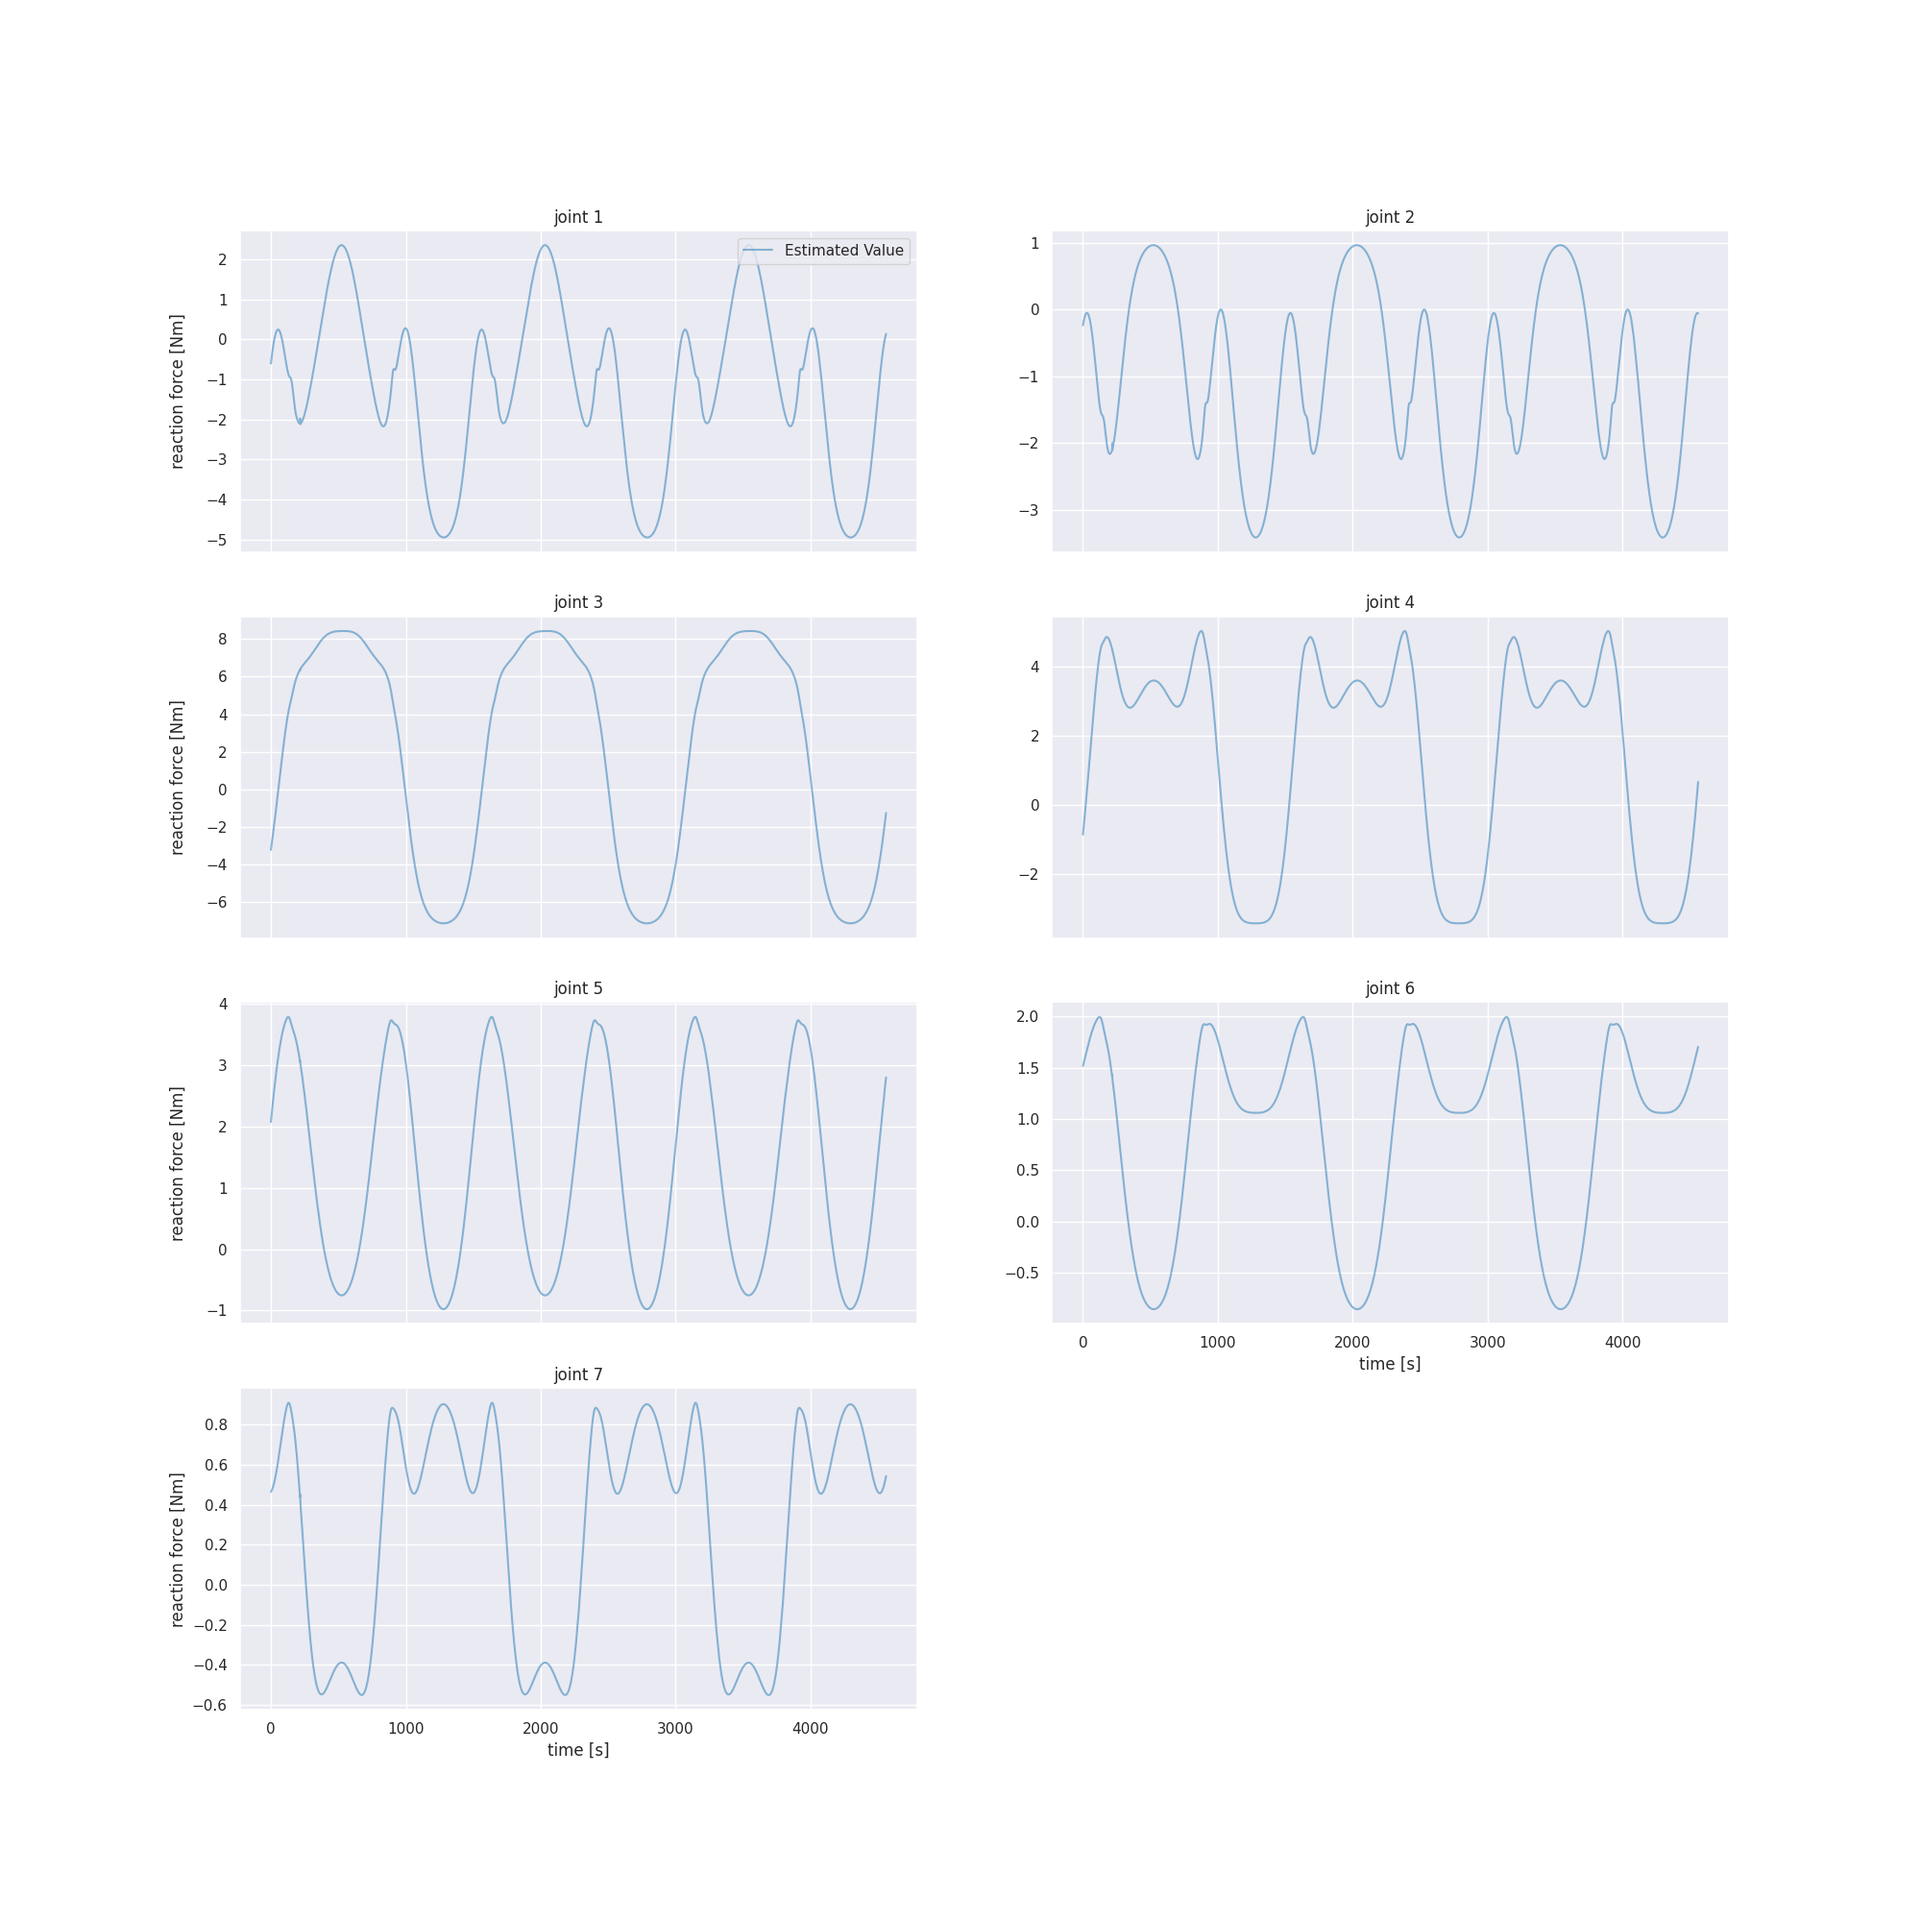
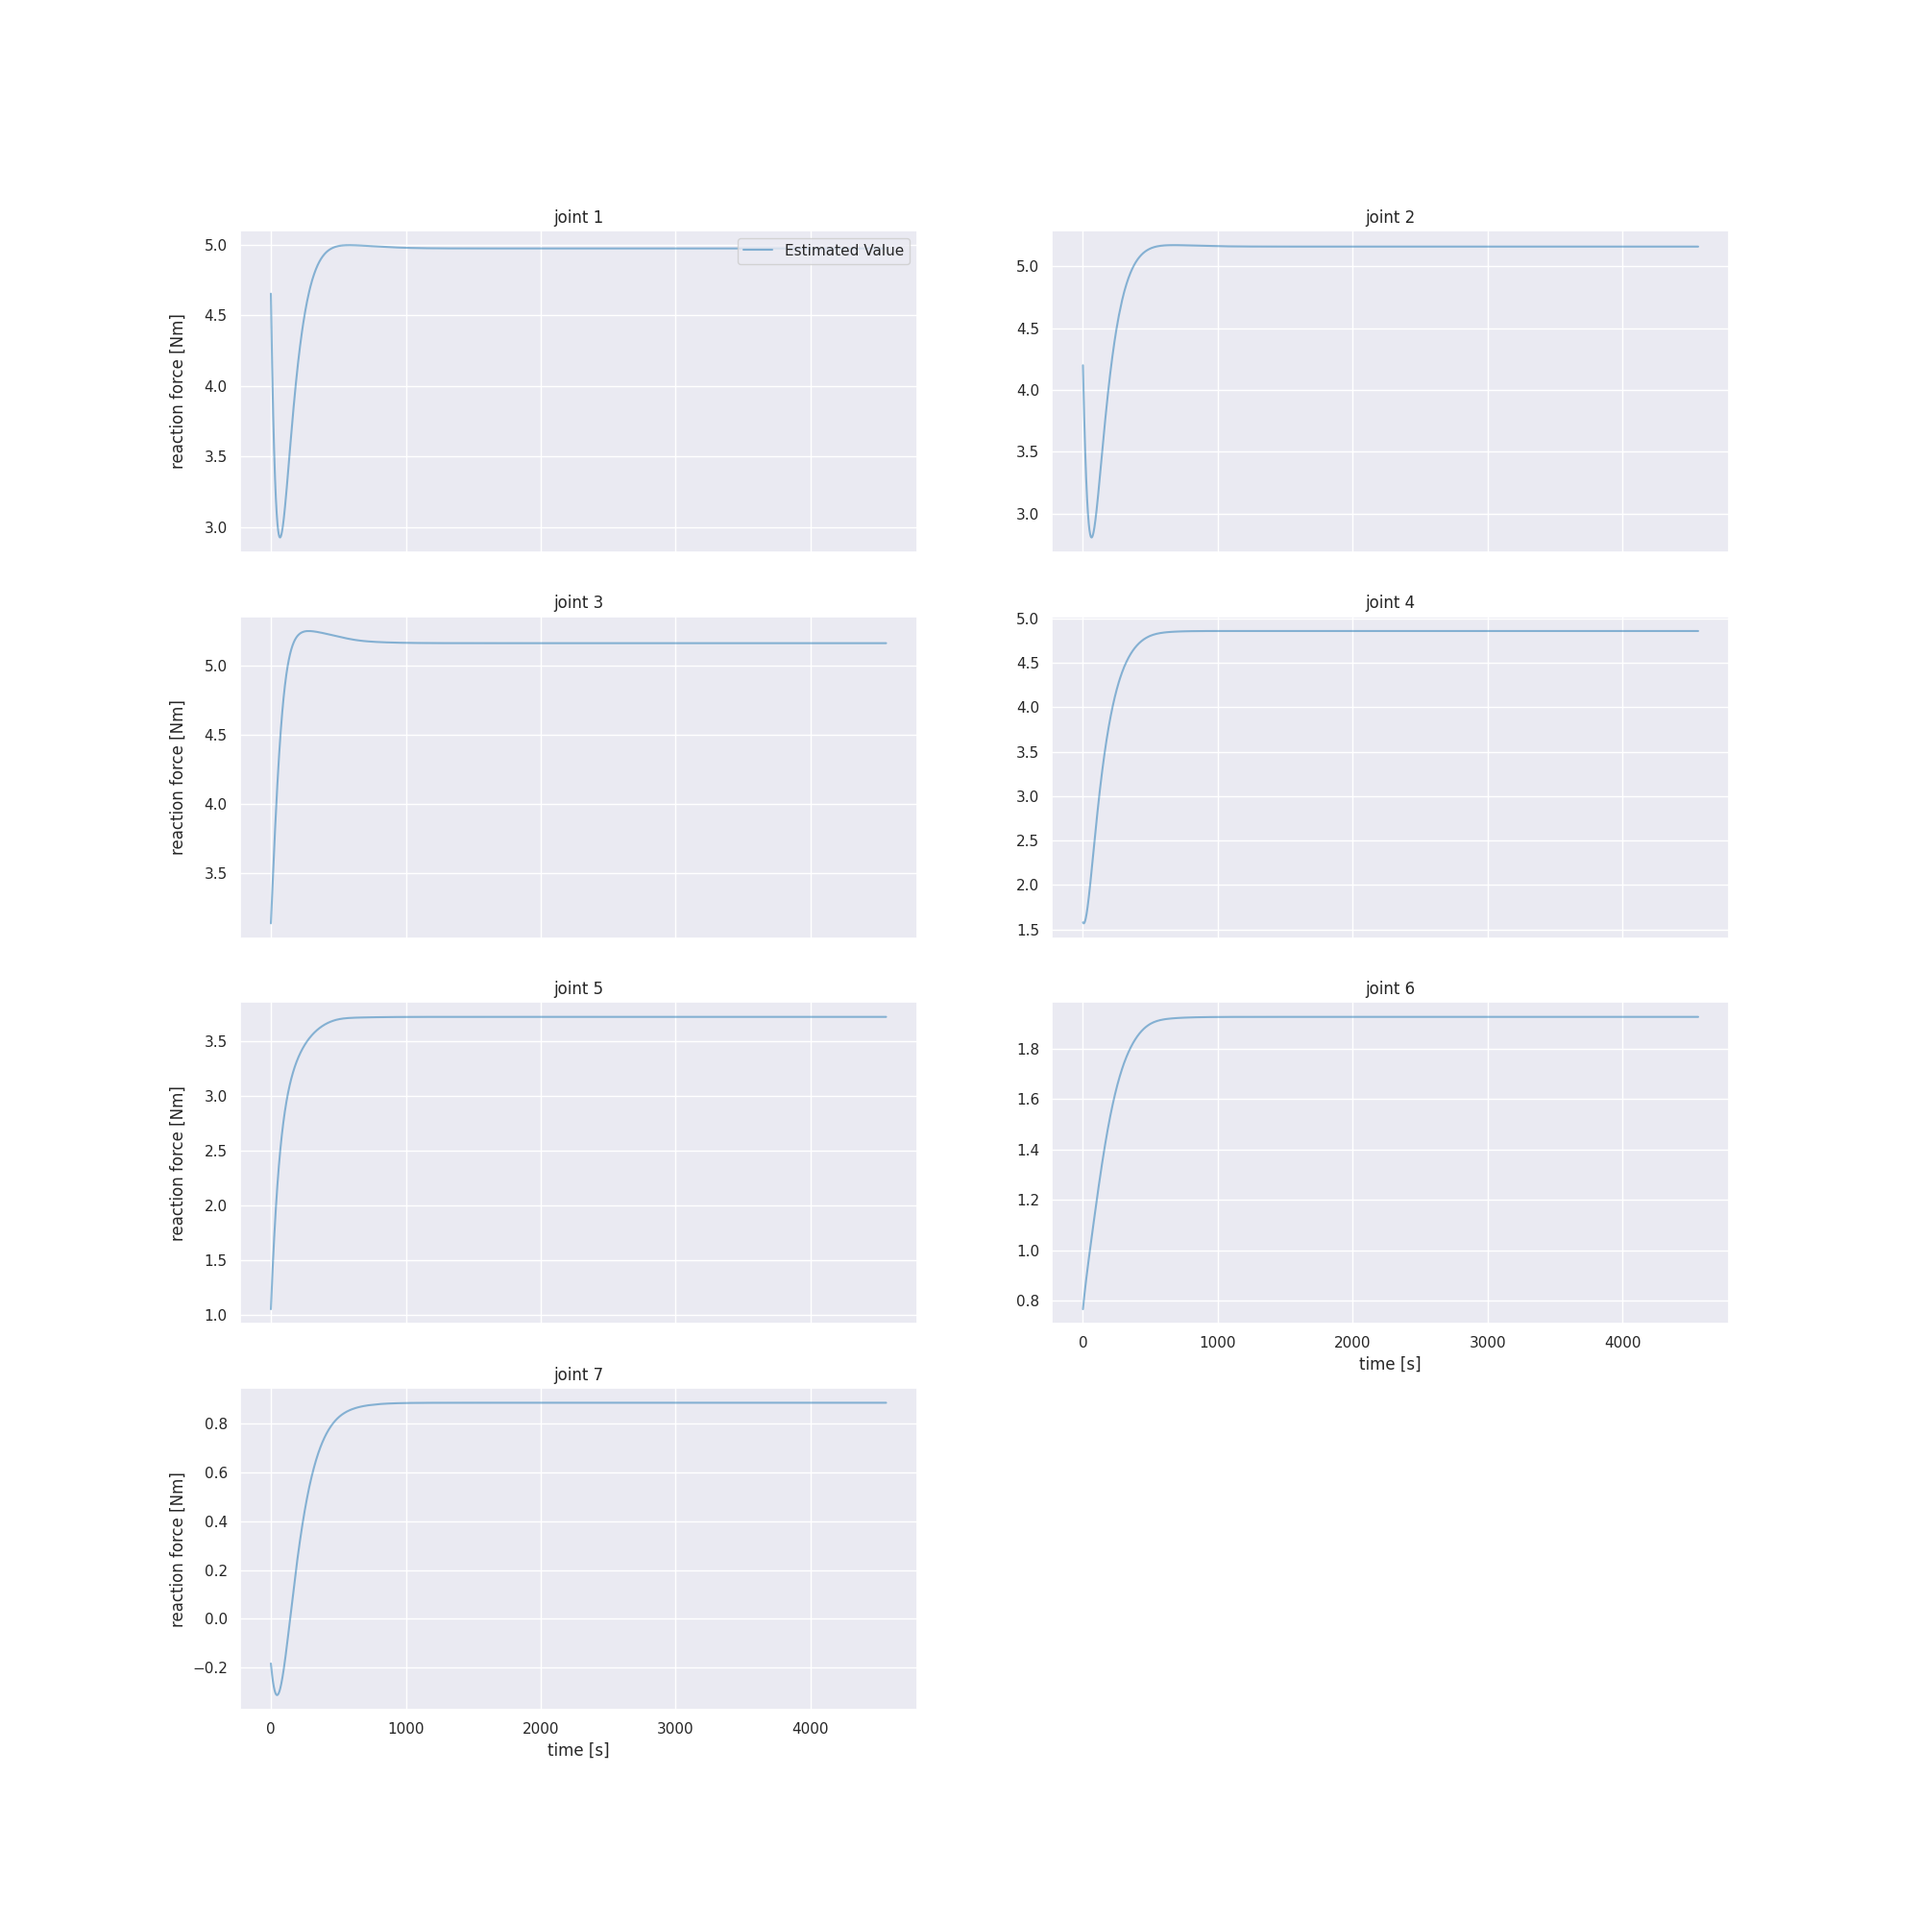
p control

diff --git a/scripts/pybullet_test.py b/scripts/pybullet_test.py
@@ -1,3 +1,4 @@
+import sys
 import pybullet as p
 import pybullet_data
 from PIL import Image
@@ -6,6 +7,10 @@ from tqdm import tqdm
 import matplotlib.pyplot as plt
 import seaborn as sns
 sns.set()
+
+sys.path.append('.')
+sys.path.append('..')
+from scripts.Jaco import Jaco
 
 
 def save_gif(frames, path):
@@ -23,6 +28,28 @@ def init_pybullet(Hz=240):
     timestep = 1 / Hz
     p.setTimeStep(timestep)
     p.loadURDF('plane.urdf')
+
+
+def plot_position(fig, target, observation):
+    dim = target.shape[0]
+    col = 2
+    row = int(dim / col) + 1
+
+    for i in range(dim):
+        ax = fig.add_subplot(row, col, i + 1)
+        ax.plot(target[i], color='tab:gray', label='Ground Truth')
+        ax.plot(observation[i], color='tab:blue',
+                alpha=0.5, label='Estimated Value')
+        ax.set_title('joint {}'.format(i + 1))
+        if i % col == 0:
+            ax.set_ylabel('')
+        if i >= dim - col:
+            ax.set_xlabel('time [s]')
+        else:
+            ax.tick_params(bottom=False, labelbottom=False)
+        if i == 0:
+            ax.legend(loc='upper right')
+    fig.align_labels()
 
 
 def plot_torque(fig, y, pred):
@@ -75,122 +102,82 @@ def plot_reaction_force(fig, y, pred):
     fig.align_labels()
 
 
-class Jaco():
-    def __init__(self, pos=[0, 0, 0], rot=[0, 0, 0]):
-        self.robotId = p.loadURDF(
-            'urdf/kinova_description/urdf/j2n7s300.urdf',
-            # 'urdf/crane_x7_description/urdf/crane_x7.urdf',
-            pos,
-            p.getQuaternionFromEuler(rot))
-        self.eeId = 9
-        self.joint_num = p.getNumJoints(self.robotId)
-        print('joints_num', self.joint_num)
-        for i in range(self.joint_num):
-            p.enableJointForceTorqueSensor(self.robotId, i)
-            info = p.getJointInfo(self.robotId, i)
-            print(i, info[1])
-        self.reset()
-
-    def calcIK(self, pos=[1, 1, 1], rot=[0, 0, 0]):
-        return p.calculateInverseKinematics(self.robotId, self.eeId, pos, rot)
-
-    def reset(self):
-        reset_point = self.calcIK([-0.5, -0.5, 0.5], [0, 0, 0])
-        for i in range(2, self.eeId):
-            p.resetJointState(self.robotId, i, reset_point[i])
-
-    def move_end_effector(self, pos=[1, 1, 1], rot=[0, 0, 0]):
-        joint_poses = self.calcIK(pos, rot)
-        for i in range(2, self.eeId):
-            p.setJointMotorControl2(
-                self.robotId,
-                i,
-                p.POSITION_CONTROL,
-                targetPosition=joint_poses[i],
-                targetVelocity=0,
-            )
-
-    def move_joints(self, jointAngle=[np.pi, np.pi, np.pi, np.pi, np.pi, np.pi, np.pi]):
-        for i in range(7):
-            p.setJointMotorControl2(
-                self.robotId,
-                i + 2,
-                p.POSITION_CONTROL,
-                targetPosition=jointAngle[i],
-                targetVelocity=0,
-            )
-
-    def stop(self):
-        for i in range(self.joint_num):
-            p.setJointMotorControl2(
-                self.robotId,
-                i,
-                p.VELOCITY_CONTROL,
-                targetVelocity=0,
-            )
-
-    def getState(self):
-        position_list = []
-        velocity_list = []
-        reactionForce_list = []
-        torque_list = []
-        for i in range(2, 9):
-            position, velocity, reactionForce, torque = p.getJointState(
-                self.robotId, i)
-            position_list.append(position)
-            velocity_list.append(velocity)
-            reactionForce_list.append(reactionForce)
-            torque_list.append(torque)
-        return np.concatenate(
-            [position_list, velocity_list, torque_list]), reactionForce_list
-
-
 def main():
-    init_pybullet()
+    Hz = 240
+    ts = 1 / 240
+    init_pybullet(Hz)
 
     robot = Jaco()
 
-    p.loadURDF('urdf/my_block.urdf', [-0.5, 0.5, 0.5])
+    # p.loadURDF('urdf/my_block.urdf', [-0.5, 0.5, 0.5])
+
+    target_pos = [np.pi, np.pi, np.pi, np.pi, np.pi, np.pi, np.pi]
 
     frames = []
-    state_list = []
+    position_list = []
+    velocity_list = []
+    torque_list = []
+    torque_hat_list = []
     reactionForce_list = []
-    for t in tqdm(range(240 * 20)):
+    target_pos_list = []
+    input_list = []
+    last_velocity = 0
+    for t in tqdm(range(Hz * 20)):
         # pos = [-0.6 + 0.2 * np.cos(t / 240), 0.2 * np.sin(t / 240), 0.4]
-        # robot.move_end_effector(pos)
-        robot.move_joints([
-            np.pi + np.cos(t/240),
-            np.pi + np.cos(t/240),
-            np.pi + np.cos(t/240),
-            np.pi + np.cos(t/240),
-            np.pi + np.cos(t/240),
-            np.pi + np.cos(t/240),
-            np.pi + np.cos(t/240),
-        ])
+        # robot.moveEndEffector(pos)
+        # robot.move_joints([
+        #     np.pi + np.cos(t/240),
+        #     np.pi + np.cos(t/240),
+        #     np.pi + np.cos(t/240),
+        #     np.pi + np.cos(t/240),
+        #     np.pi + np.cos(t/240),
+        #     np.pi + np.cos(t/240),
+        #     np.pi + np.cos(t/240),
+        # ])
+        position, velocity, torque, reactionForce = robot.getJointState()
+        acceleration = (last_velocity - velocity) * ts
+        input = target_pos - position
+        robot.setJointsVelocity(input)
+        last_velocity = velocity
+        # print(p.getDynamicsInfo(robot.robotId, 2))
+        # torque_hat = robot.calcID(position, velocity, acceleration)
 
         p.stepSimulation()
 
         if t % 24 == 0:
             width, height, rgbImg, depthImg, segImg = p.getCameraImage(
-                # 600, 600)
                 240, 240)
             frames.append(Image.fromarray(rgbImg))
 
         if t < 240:
             continue
-        state, reactionForce = robot.getState()
-        state_list.append(state)
+        position_list.append(position)
+        velocity_list.append(velocity)
+        torque_list.append(torque)
+        # torque_hat_list.append(torque_hat)
         reactionForce_list.append(reactionForce)
+        target_pos_list.append(target_pos)
+        input_list.append(input)
 
-    state_list = np.array(state_list).transpose()
+    position_list = np.array(position_list).transpose()
+    velocity_list = np.array(velocity_list).transpose()
+    torque_list = np.array(torque_list).transpose()
+    torque_hat_list = np.array(torque_hat_list).transpose()
     reactionForce_list = np.array(reactionForce_list).transpose()
-    # print(reactionForce_list.shape)
-    # print(reactionForce_list)
+    target_pos_list = np.array(target_pos_list).transpose()
 
     save_gif(frames, 'result.gif')
 
     fig = plt.figure(figsize=(20, 20))
-    plot_torque(fig, state_list[14:21], state_list[14:21])
+    plot_position(fig, target_pos_list, position_list)
+    plt.savefig('position.png')
+
+    fig = plt.figure(figsize=(20, 20))
+    plot_torque(fig, velocity_list, velocity_list)
+    plt.savefig('velocity.png')
+
+    fig = plt.figure(figsize=(20, 20))
+    plot_torque(fig, torque_list, torque_list)
     plt.savefig('torque.png')
 
     fig = plt.figure(figsize=(20, 20))

diff --git a/scripts/Jaco.py b/scripts/Jaco.py
@@ -1,0 +1,83 @@
+import pybullet as p
+import pybullet_data
+from PIL import Image
+import numpy as np
+from tqdm import tqdm
+import matplotlib.pyplot as plt
+import seaborn as sns
+sns.set()
+
+
+class Jaco():
+    def __init__(self, pos=[0, 0, 0], rot=[0, 0, 0]):
+        self.robotId = p.loadURDF(
+            'urdf/kinova_description/urdf/j2n7s300.urdf',
+            pos,
+            p.getQuaternionFromEuler(rot))
+        self.eeId = 9
+        self.joint_num = p.getNumJoints(self.robotId)
+        print('joints_num', self.joint_num)
+        for i in range(self.joint_num):
+            p.enableJointForceTorqueSensor(self.robotId, i)
+            info = p.getJointInfo(self.robotId, i)
+            print(i, info[1])
+        self.reset()
+
+    def calcIK(self, pos=[1, 1, 1], rot=[0, 0, 0]):
+        return p.calculateInverseKinematics(self.robotId, self.eeId, pos, rot)
+
+    def calcID(self, pos, vel, acc):
+        return p.calculateInverseDynamics(self.robotId, pos, vel, acc)
+
+    def reset(self):
+        reset_point = self.calcIK([-0.5, -0.5, 0.5], [0, 0, 0])
+        for i in range(2, self.eeId):
+            p.resetJointState(self.robotId, i, reset_point[i])
+
+    def moveEndEffector(self, pos=[1, 1, 1], rot=[0, 0, 0]):
+        joint_angle = self.calcIK(pos, rot)
+        self.setJointsAngle(joint_angle[:7])
+
+    def setJointsAngle(self, jointAngle=[
+                       np.pi, np.pi, np.pi, np.pi, np.pi, np.pi, np.pi]):
+        p.setJointMotorControlArray(
+            self.robotId,
+            range(2, 9),
+            p.POSITION_CONTROL,
+            targetPositions=jointAngle,
+        )
+
+    def setJointsVelocity(self, jointVelocity=[0, 0, 0, 0, 0, 0, 0]):
+        p.setJointMotorControlArray(
+            self.robotId,
+            range(2, 9),
+            p.VELOCITY_CONTROL,
+            targetVelocities=jointVelocity,
+        )
+
+    def setJointsTorque(self, jointTorque=[0, 0, 0, 0, 0, 0, 0]):
+        p.setJointMotorControlArray(
+            self.robotId,
+            range(2, 9),
+            p.TORQUE_CONTROL,
+            force=jointTorque,
+        )
+
+    def getJointState(self):
+        position_list = []
+        velocity_list = []
+        reactionForce_list = []
+        torque_list = []
+        for i in range(2, 9):
+            position, velocity, reactionForce, torque = p.getJointState(
+                self.robotId, i)
+            position_list.append(position)
+            velocity_list.append(velocity)
+            reactionForce_list.append(reactionForce)
+            torque_list.append(torque)
+
+        position_list = np.array(position_list)
+        velocity_list = np.array(velocity_list)
+        torque_list = np.array(torque_list)
+        reactionForce_list = np.array(reactionForce_list)
+        return position_list, velocity_list, torque_list, reactionForce_list
